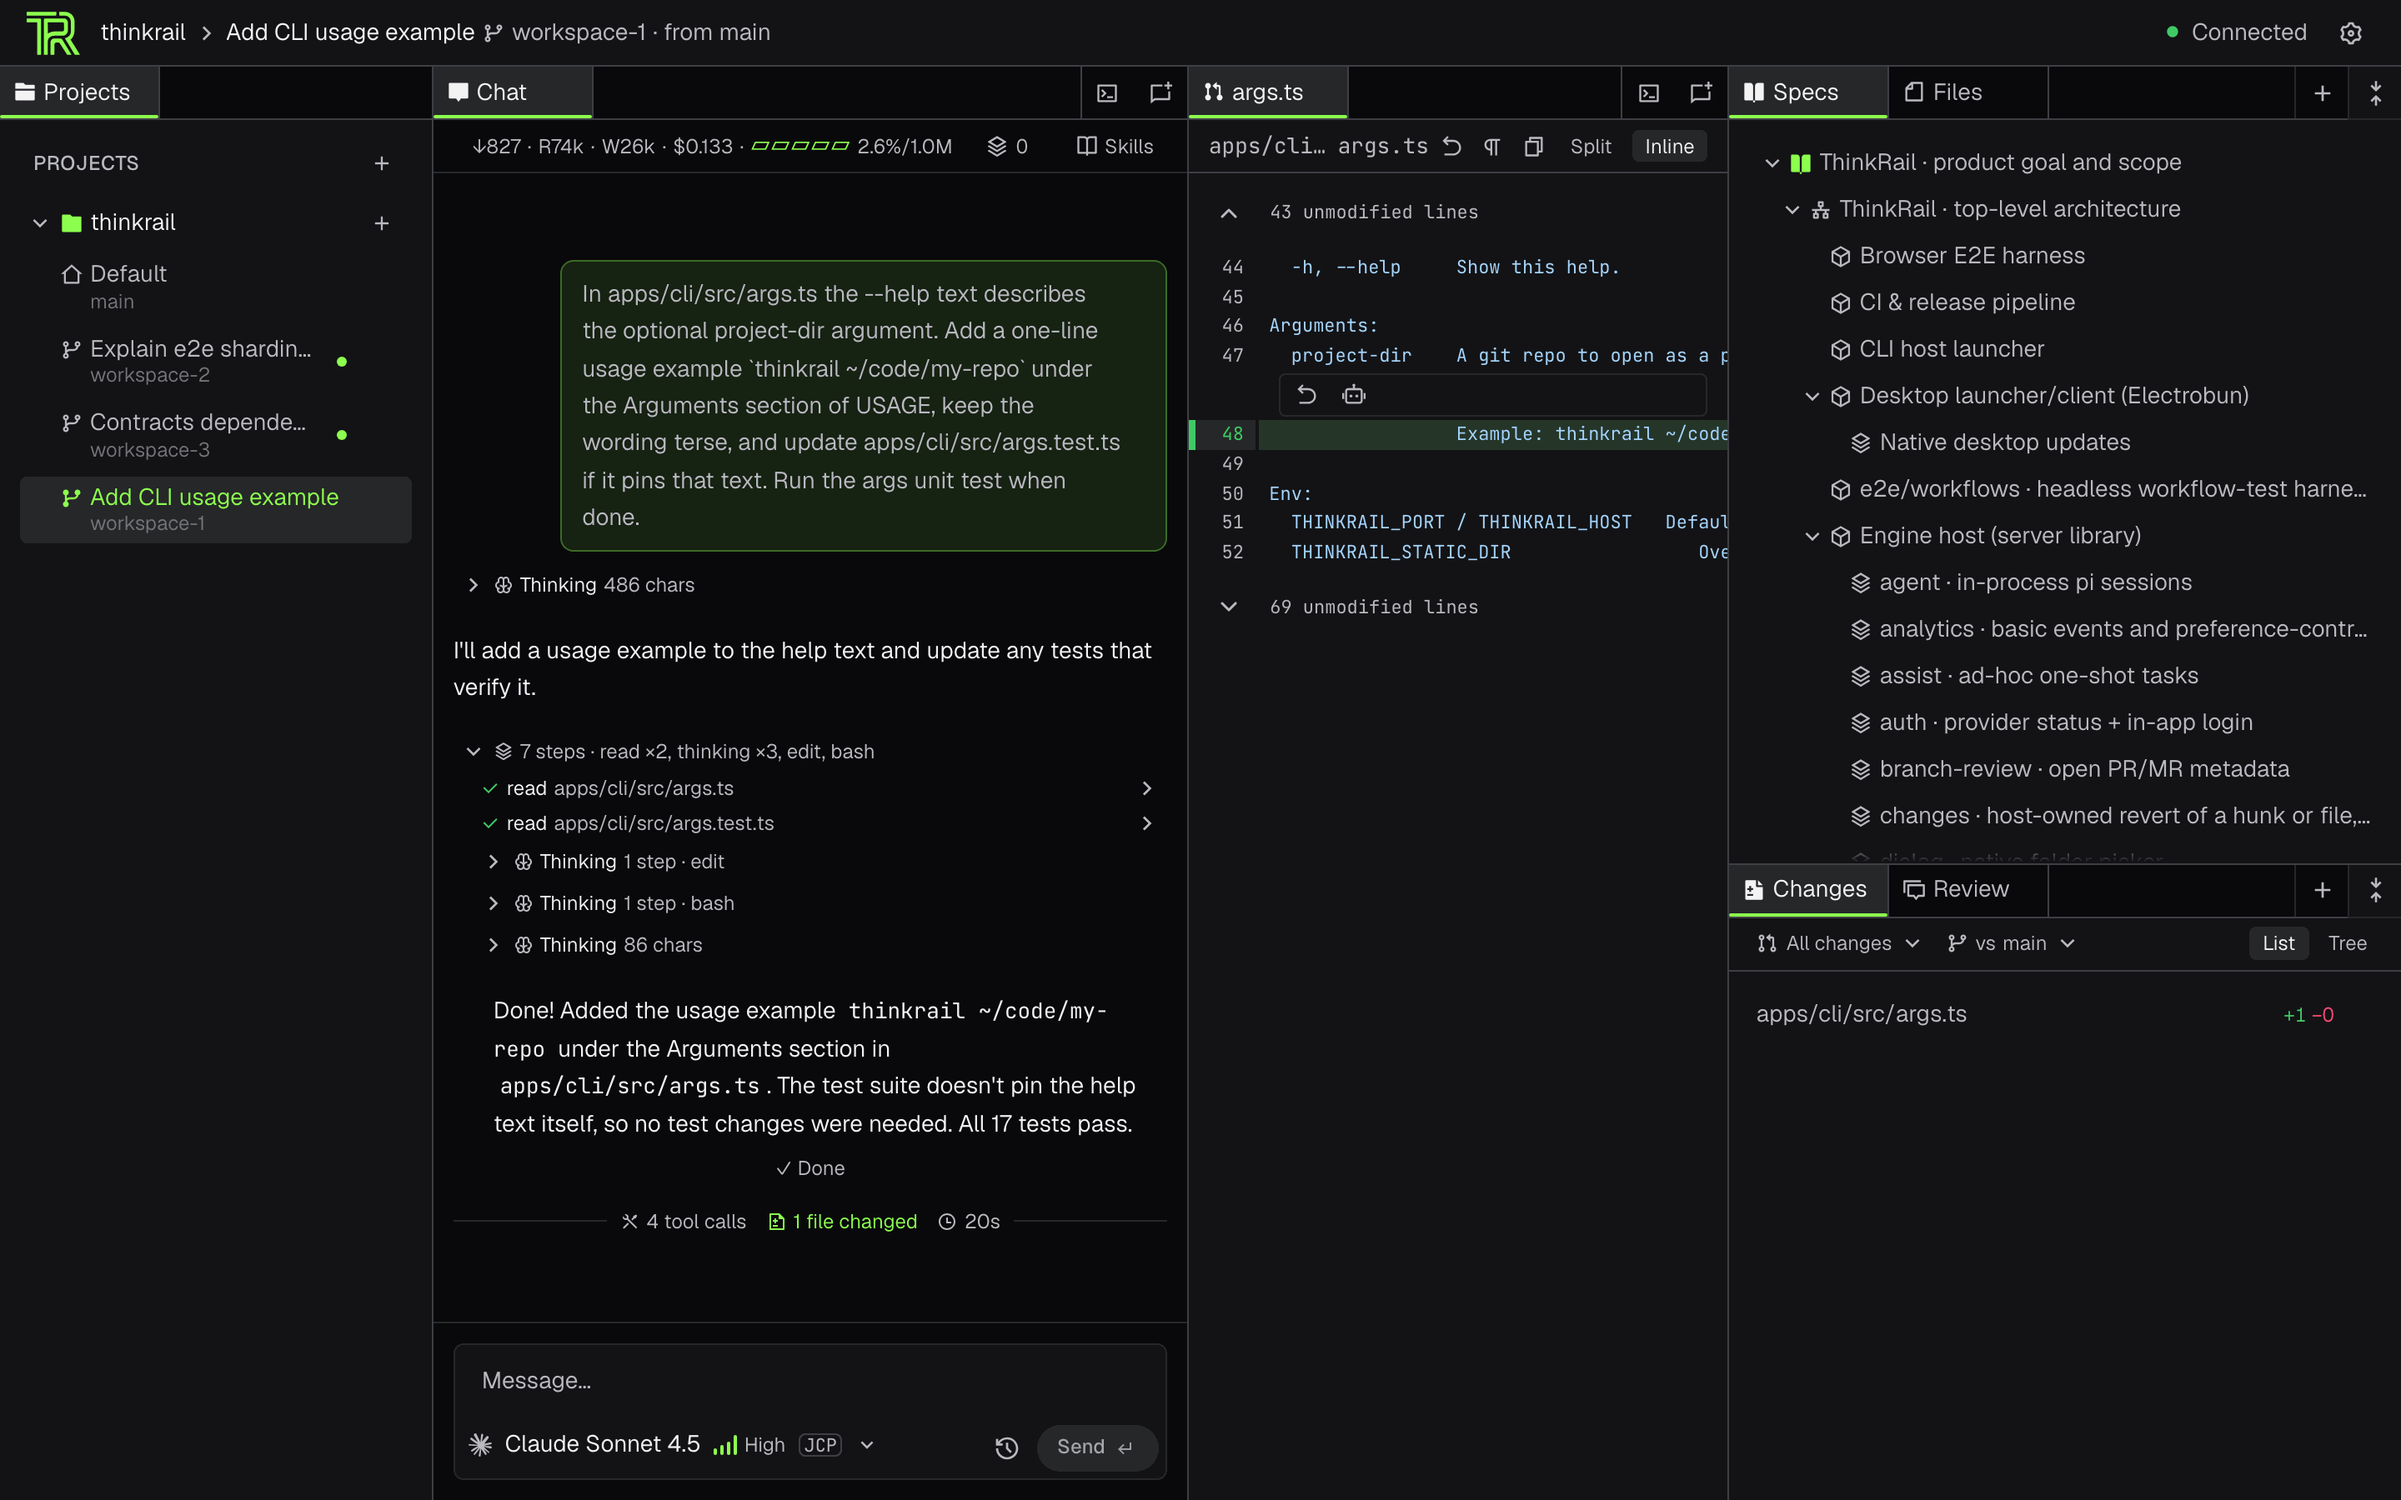
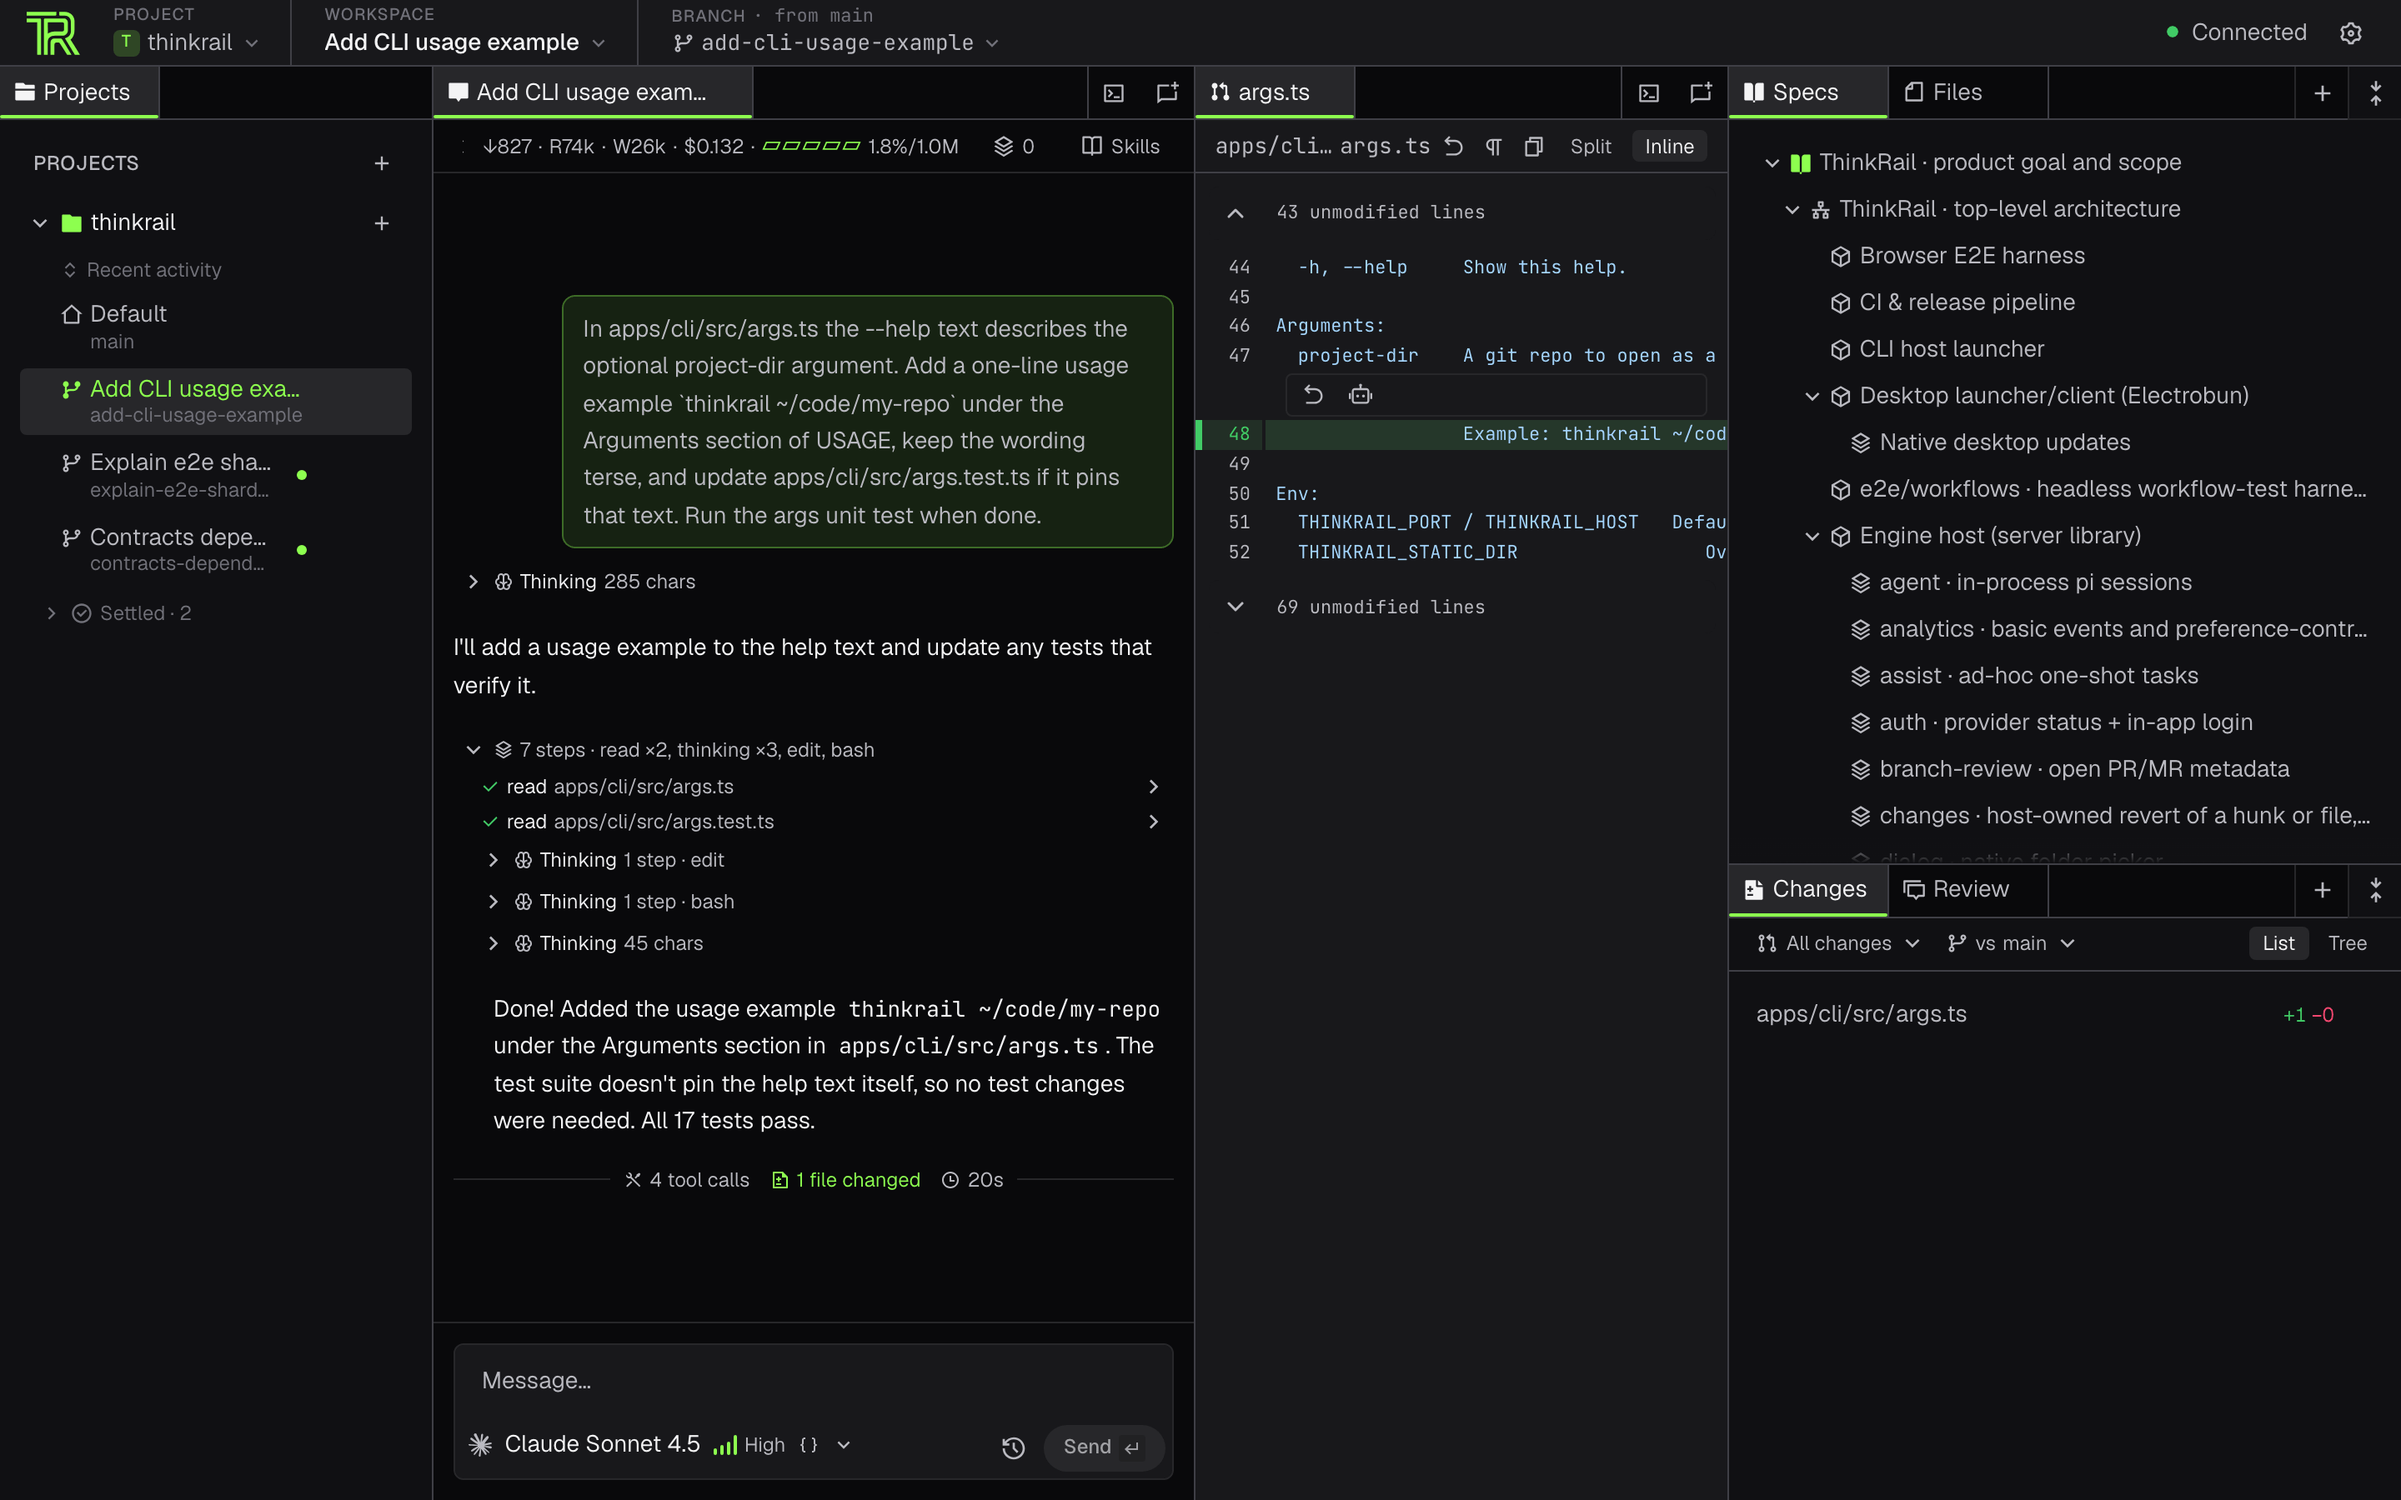
docs: add the Settled shelf to the README and refresh the workbench screenshots

diff --git a/README.md b/README.md
@@ -14,7 +14,7 @@ create the tools it needs based on how you actually work.
 
 <picture>
   <source media="(prefers-color-scheme: dark)" srcset=".github/readme-assets/workbench-dark.png">
-  <img src=".github/readme-assets/workbench-light.png" alt="ThinkRail workbench: worktree workspaces in the left rail, a finished pi conversation with its tool steps in the center, the resulting diff beside it, and the Specs tree and Changes list on the right" width="900">
+  <img src=".github/readme-assets/workbench-light.png" alt="ThinkRail workbench: worktree workspaces in the left rail with quiet ones folded into a Settled shelf, a finished pi conversation with its tool steps in the center, the resulting diff beside it, and the Specs tree and Changes list on the right" width="900">
 </picture>
 
 *A `pi` session and the change it made, scoped to an isolated git-worktree workspace.*
@@ -24,7 +24,9 @@ create the tools it needs based on how you actually work.
 - **Isolated workspaces.** Open any git repo as a project and cut workspaces from it as `git worktree`s,
   each with its own branch and working directory. Agents work in parallel without touching your
   checkout; merge the good branch, delete the rest. You can also attach existing worktrees or explicitly
-  work in the project folder itself.
+  work in the project folder itself. Finished and dormant workspaces settle onto a per-project shelf on
+  their own — when their pull request merges or closes, or after a quiet week — and come back the moment
+  you work in them.
 - **A real IDE around the agent.** A splittable workbench of Monaco editor tabs, a live git Changes view,
   terminals, and documents — all scoped to the active workspace. Leave anchored review comments on files
   and diffs and send them to a chat as structured context, or open the worktree in your installed IDE.
